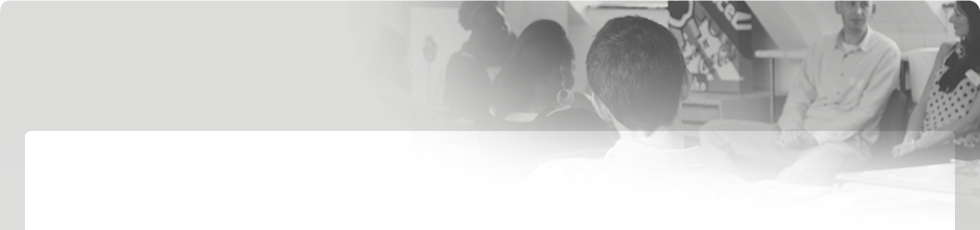
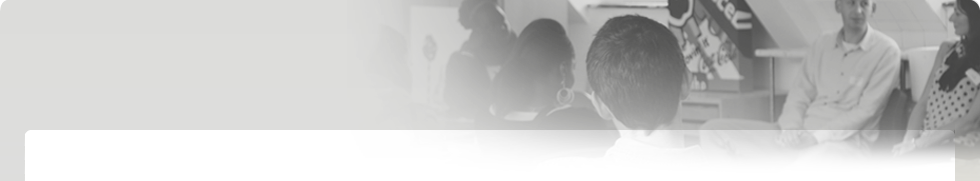
shortening header image

diff --git a/drupal/sites/all/themes/futura/css/style.css b/drupal/sites/all/themes/futura/css/style.css
@@ -312,7 +312,7 @@ ul#menu-primary-navigation .sub-menu a {
 #main {
 	width: 980px;
 	margin: 0 auto;
-    padding: 200px 0 0 0;
+    padding: 180px 0 0 0;
 	background: url(../images/bg.png) no-repeat 0 0;
 	position: relative;
 }
